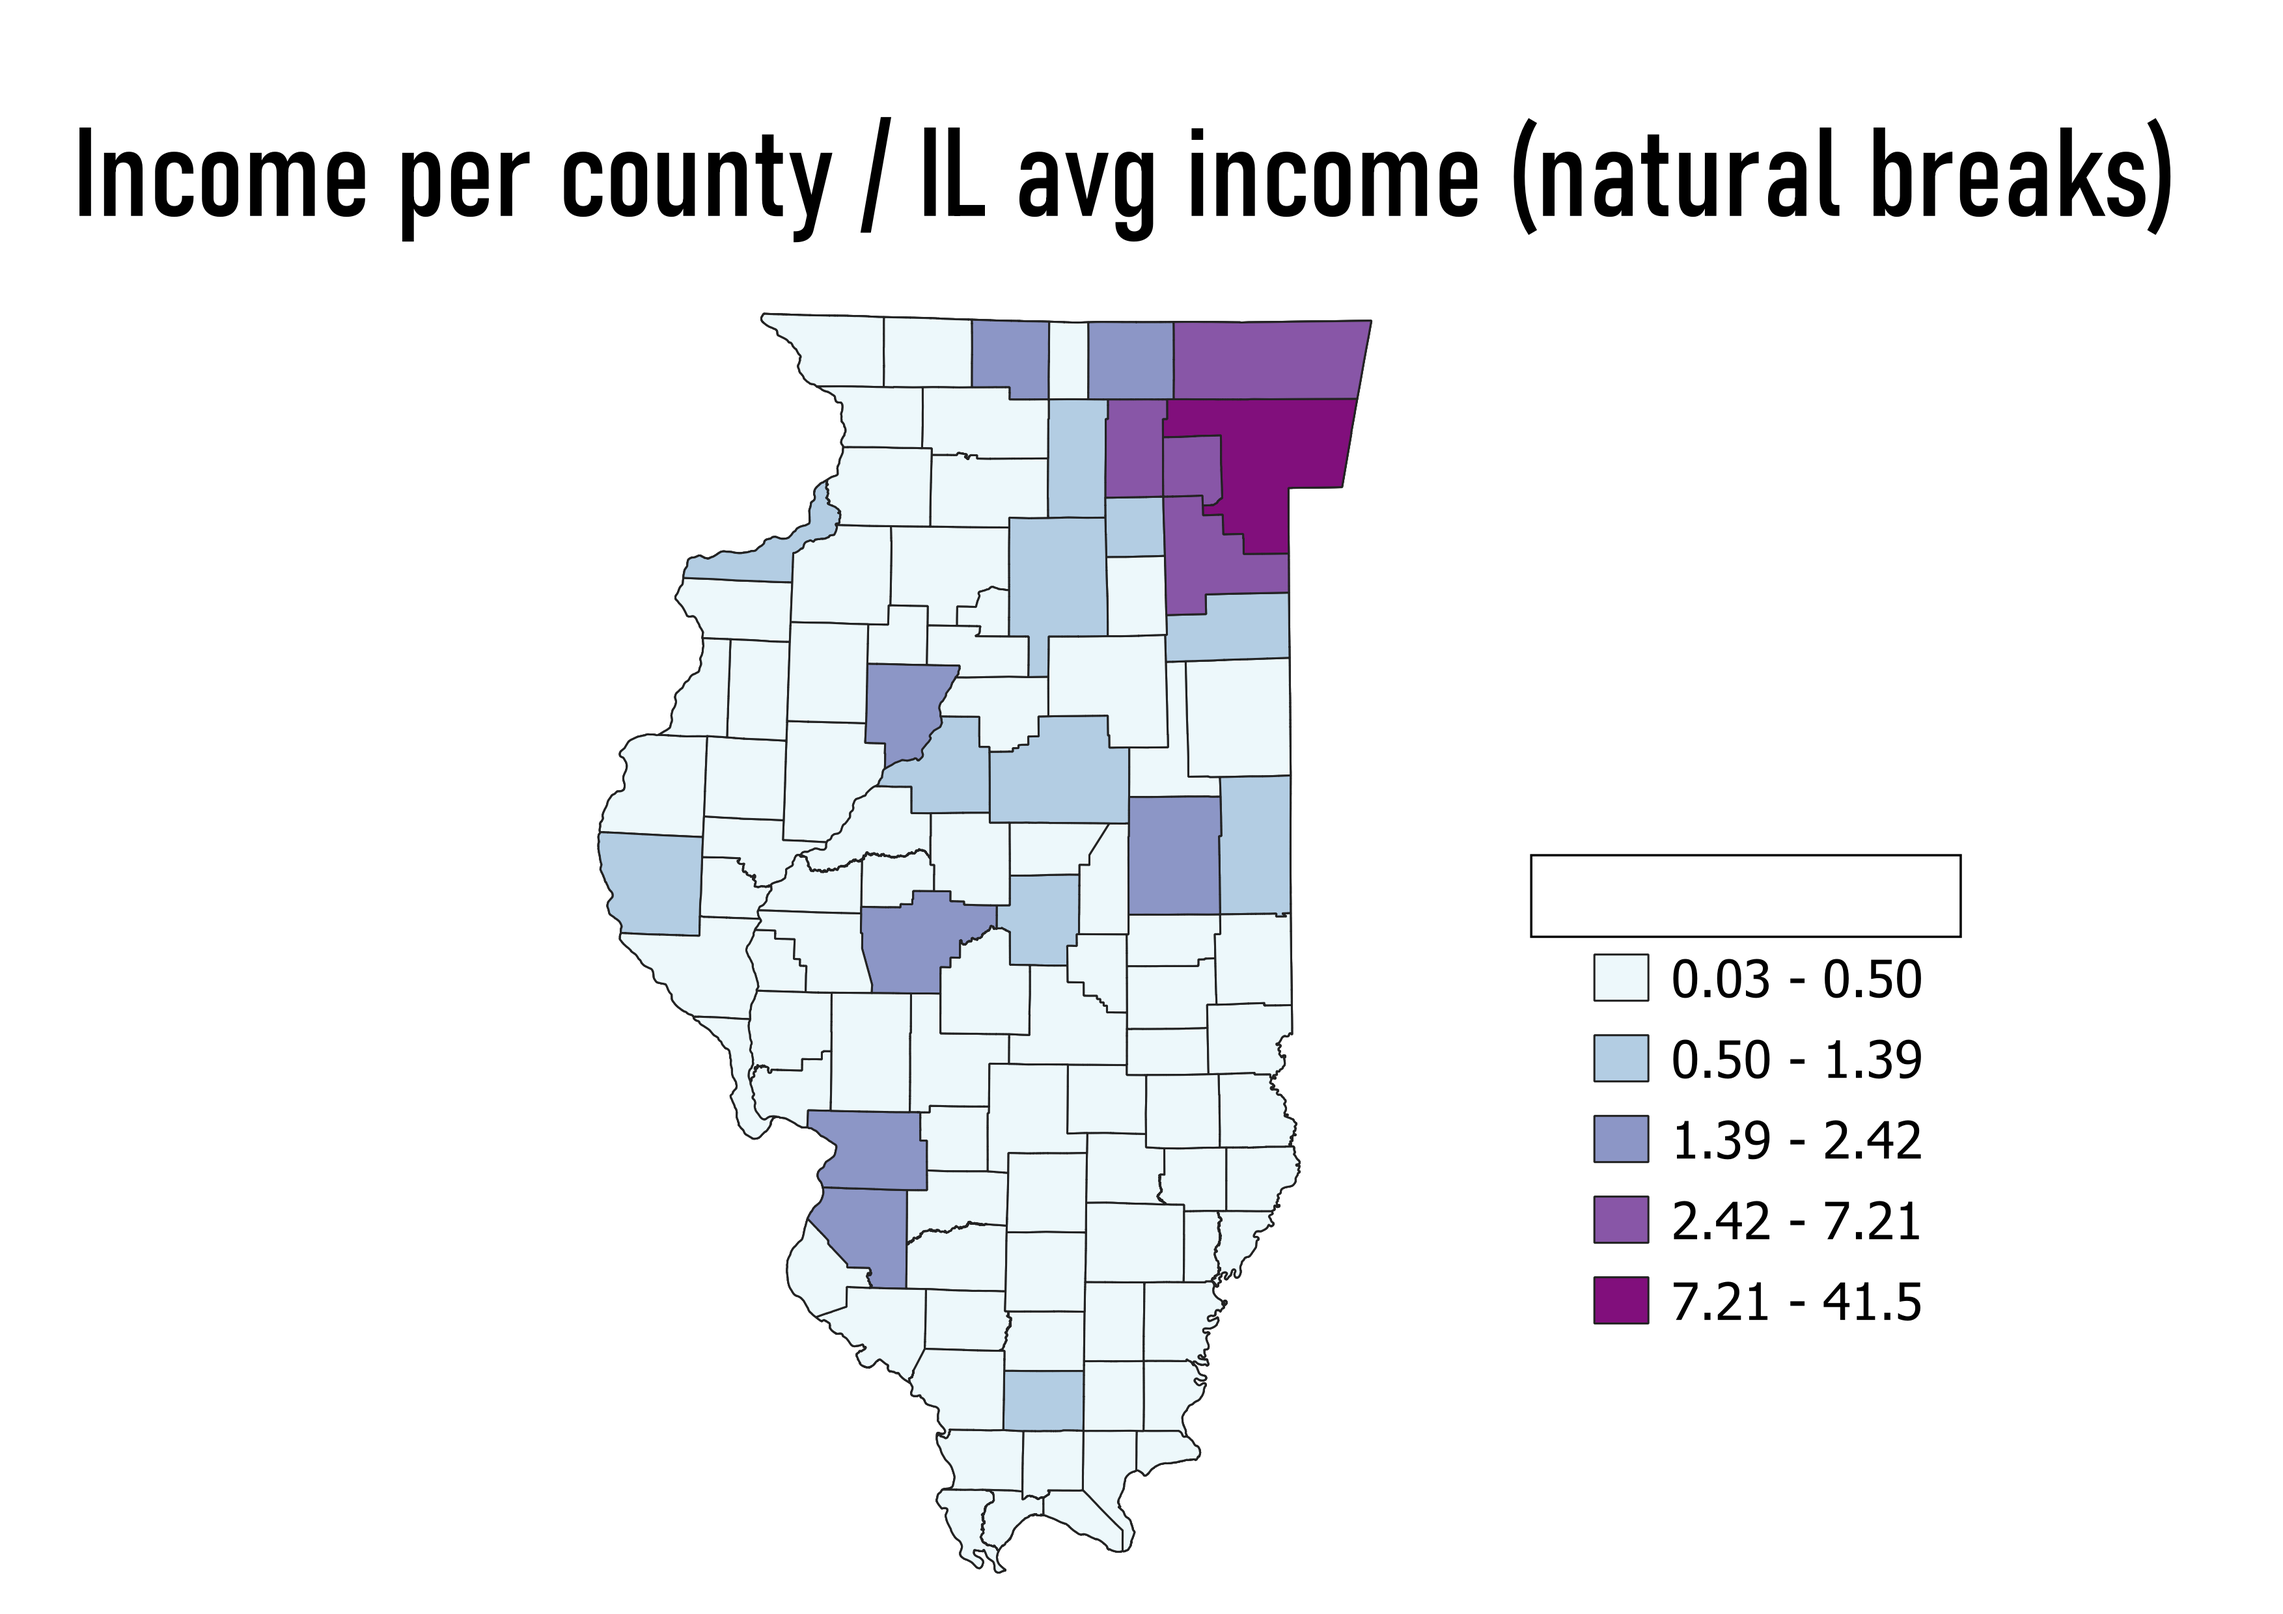
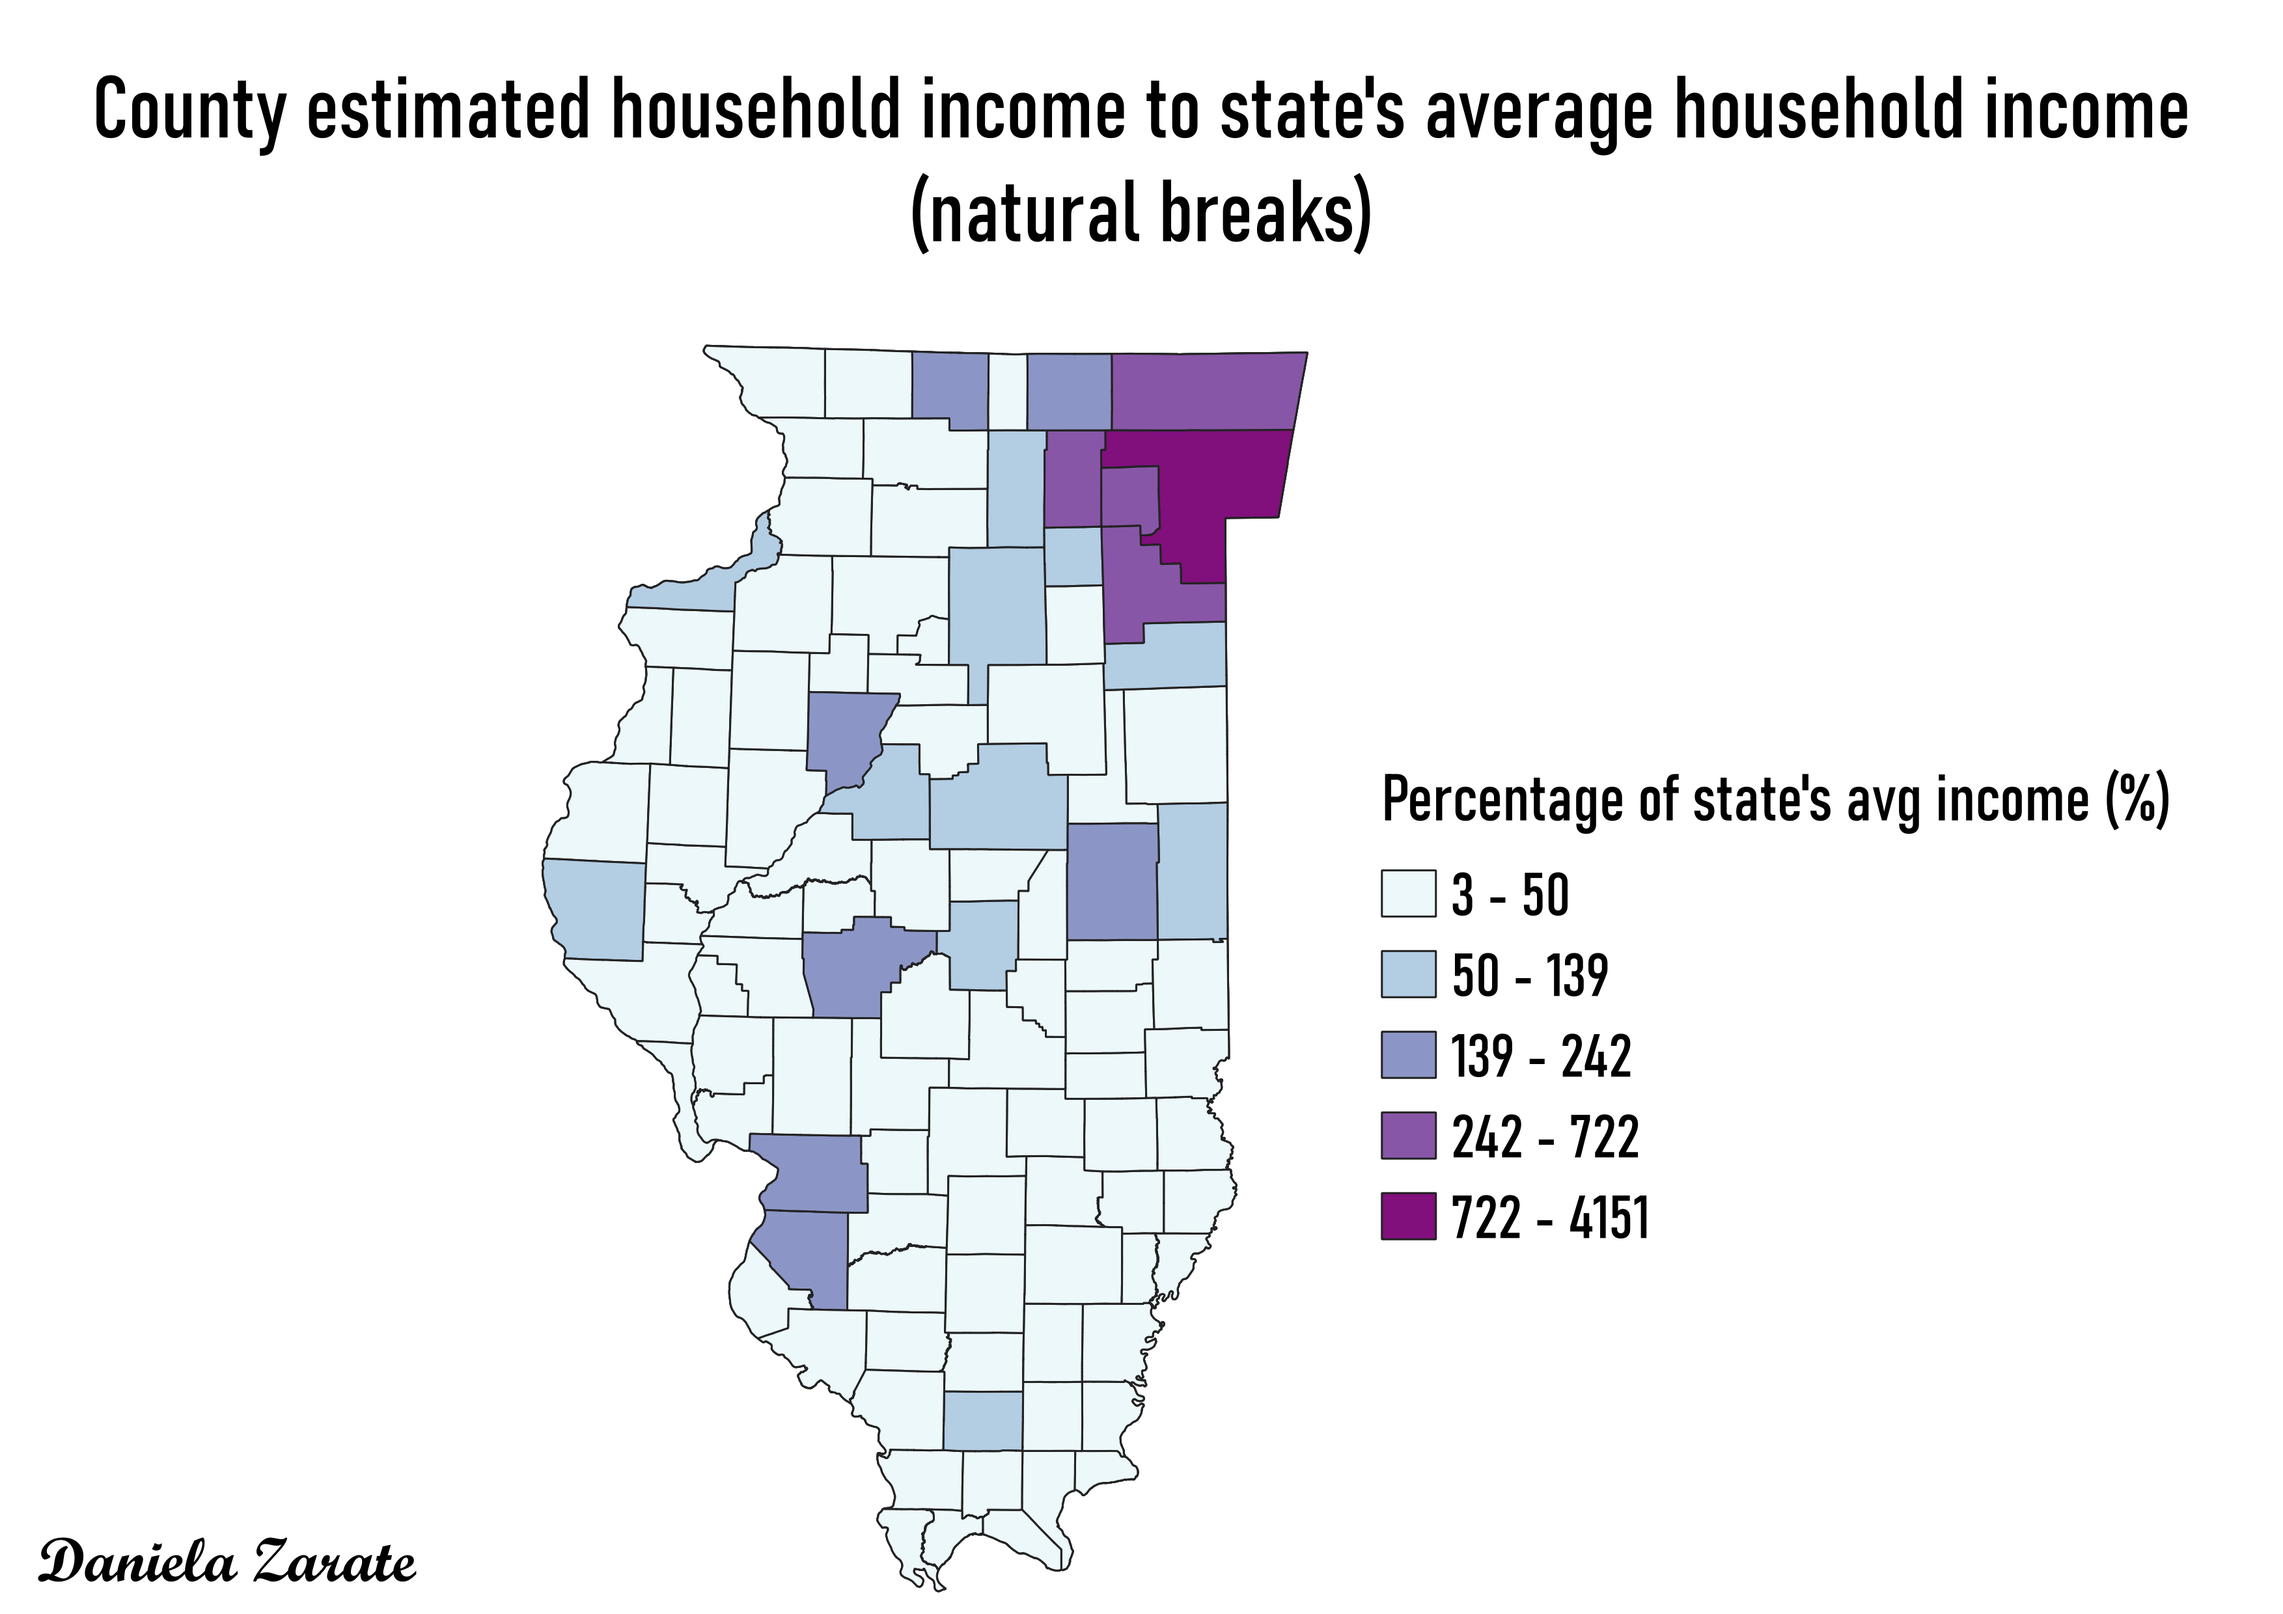
hw8

diff --git a/HW 8_gh/il_ratios.html b/HW 8_gh/il_ratios.html
@@ -1,0 +1,33 @@
+<!DOCTYPE html>
+<html lang="en"><head>
+    <meta charset="UTF-8">
+    <meta name="viewport" content="width=device-width, initial-scale=1.0">
+    <title>Homework 7</title>
+</head>
+<body data-new-gr-c-s-check-loaded="8.871.0" data-gr-ext-installed="">
+<h1>Homework 8: Census data ratios and categories</h1>
+<h2>Estimated household income in Illinois' counties to the state's average household income.</h2>
+<h3>This ratio shows the percentage of the state's average household income ($47,511) that each county earns.</h3>
+<p></p>
+<h2>Natural breaks</h2>
+<h4>Natural breaks categorizes the data into the most optimal intervals. This categorization is useful for this map because it shows us that the majority of counties make less than 50% of the state's average household income which is consistent with the data.</h4>
+<!-- Your map goes here -->
+<a href="./breaks_ratio.png">
+    <img src="./breaks_ratio.png" alt="Illinois choropleth natural breaks" width="500px">
+    </a>
+<p></p>
+<h2>Equal intervals</h2>
+<h4>As the name says it, the equal interval categorization splits the data into classes with equal intervals. By doing this with the data used for the map, which goes from 3% to 4151%, this categorization splits the data into five clases of intervals of approximately 830. In this case, the data only falls under two classes so it does not make a lot of sense to have five different classes.</h4>
+<!-- Your map goes here -->
+<a href="./intv_ratio.png">
+    <img src="./intv_ratio.png" alt="Illinois choropleth equal intervals" width="500px">
+    </a>
+<p></p>
+<h2>Quantile</h2>
+<h4>Quantile categorization assigns the same number of data values to each class. In the case of the Illinois map it assign around 20 counties to each of the five classes because it has 102 counties. This categorization is useful for linearly distributed data, which is not the case of the data from the counties of Illinois.</h4>
+<!-- Your map goes here -->
+<a href="./quantile_ratio.png">
+    <img src="./quantile_ratio.png" alt="Illinois choropleth quantile" width="500px">
+    </a>
+
+</body></html>
